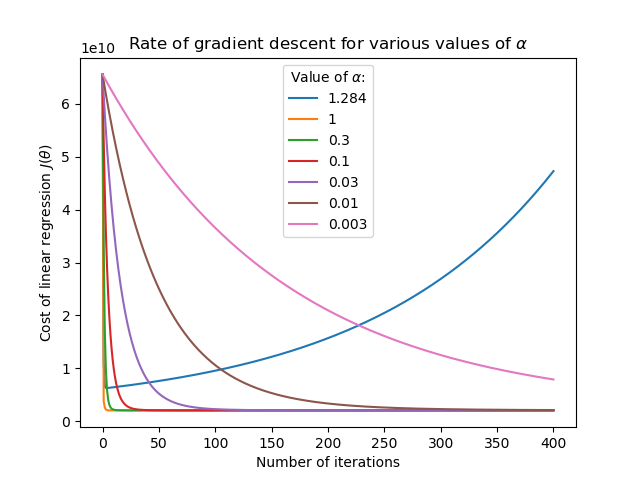
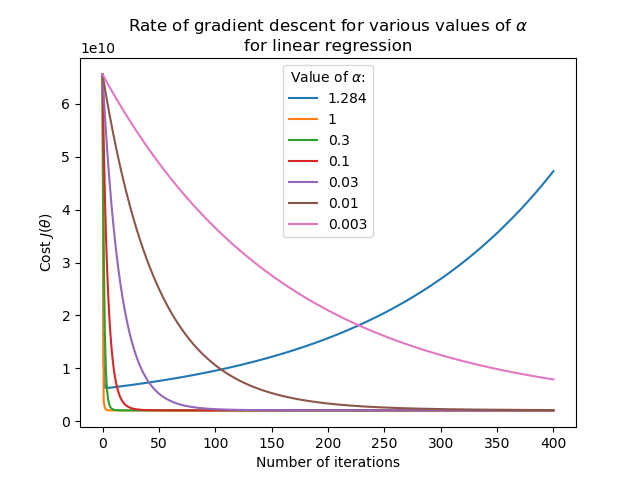
ex1: More accurate titles for some graphics

Changed region(s): [[0.1875, 0.0312, 0.8438, 0.125], [0.0625, 0.3125, 0.0938, 0.7188]]

diff --git a/ex1/ex1.py b/ex1/ex1.py
@@ -168,7 +168,7 @@ if __name__ == "__main__":
     plt.xlabel(r"$\theta_0$")
     plt.ylabel(r"$\theta_1$")
     plt.gca().set_zlabel(r"$J(\theta_0,\theta_1)$")
-    plt.title("Cost of univariable linear regression\n"
+    plt.title("Cost function for univariable linear regression\n"
               "and computed gradient descent path")
 
     plt.figure()
@@ -180,7 +180,7 @@ if __name__ == "__main__":
     plt.plot(descent_path[-1,0], descent_path[-1,1], "rx",
              label="End point [{:.1f},{:.1f}]".format(
                  descent_path[-1,0], descent_path[-1,1]))
-    plt.title("Gradient descent for univariable regression\n"
+    plt.title("Gradient descent for univariable linear regression\n"
               "with $\\alpha = {}$ and {} iterations".format(alpha, iterations))
     plt.xlabel(r"$\theta_0$")
     plt.ylabel(r"$\theta_1$")
@@ -226,8 +226,9 @@ if __name__ == "__main__":
               "= {}".format(alpha, iterations, list(theta.T[0]), J_history[-1]))
         plt.plot(range(len(J_history)), J_history, label=alpha)
     plt.xlabel("Number of iterations")
-    plt.ylabel("Cost of linear regression $J(\\theta)$")
-    plt.title("Rate of gradient descent for various values of $\\alpha$")
+    plt.ylabel("Cost $J(\\theta)$")
+    plt.title("Rate of gradient descent for various values of $\\alpha$\n"
+              "for linear regression")
     plt.legend(title="Value of $\\alpha$:")
 
     for alpha in [0.01, 1]:
